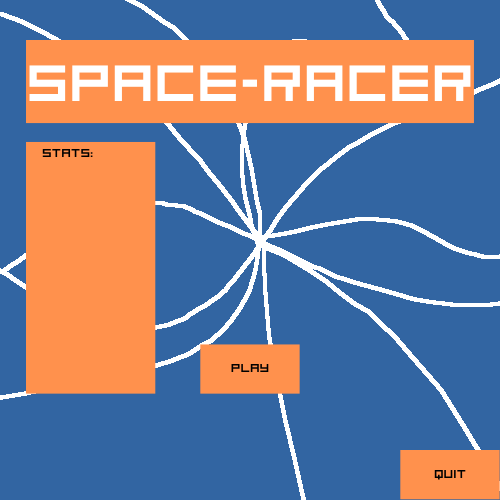
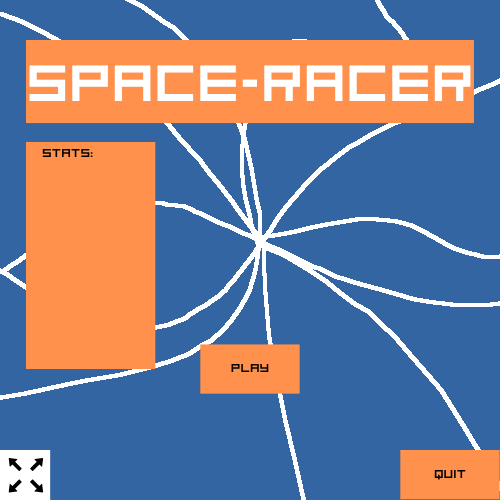
UI werk. Alleen nog geluid, enemy logica en enemy sprites

Changed region(s): [[0.03, 0.72, 0.33, 0.81], [0.0, 0.9, 0.12, 1.0]]

diff --git a/Core/UI/UI_Manager.py b/Core/UI/UI_Manager.py
@@ -17,11 +17,12 @@ class UI_Manager(UI_Group):
         self.Game = Game
         self.Add_Element(Generate_Pause_Overlay(self)) # Genereert de pausedUIoverlay
         self.Add_Element(Generate_MainMenu(self)) # Genereert de mainmenu
+        self.Add_Element(Generate_Game_UI(self))
         # Paar debug statements, Laat statistieken van de speler zien
         if Constants.Game_Settings.Debug: self.Add_Element(Generate_Debug_Overlay(self))
 
-        # 1e scoreboard update # TODO maak deze persistent
-        UpdateScoreBoard(self)
+        # 1e scoreboard update
+        Update_ScoreBoard(self)
     # Update functie
     def Update(self, Eventstack):
         # De ui heeft toegang tot de pygame event queue. Hierdoor reageert de game op events.
@@ -41,8 +42,7 @@ class UI_Manager(UI_Group):
         # Debug statements updaten(Dit zou ook buiten de manager kunnen gebeuren dat is prima)
         if Constants.Game_Settings.Debug: Update_Debug_Overlay(self)
 
-        #TODO Game UI OVERLAY TOEVOEGEN
-
+        Update_Game_UI(self)
         # Daadwerkelijke update functie, update hoe dan ook heel de UI. Niet mega efficient, maar met weinig ui prima
         for Element in self.Elements: Element.Update(Eventstack)
 
@@ -52,9 +52,9 @@ class UI_Manager(UI_Group):
         match New_State:
             case Game_State.Main_Menu:
                 self.Get_Element("MainMenu_Ui").Visible = True
-                # self.Get_Element("Game_UI").Visible = False
+                self.Get_Element("Game_UI").Visible = False
             case Game_State.In_Game:
-                # self.Get_Element("Game_UI").Visible = True TODO MAAK DEZE
+                self.Get_Element("Game_UI").Visible = True
                 self.Get_Element("MainMenu_Ui").Visible = False
 
 # Functie voor het genereren van de UI van de pause_overlay
@@ -66,11 +66,8 @@ def Generate_Pause_Overlay(UIManager):
     PausedUi.Add_Element(Image(PausedUi, "PausedBackground", PausedOverlay, (0, 0)))
     PausedUi.Add_Element(Text_Element(PausedUi, "PauseText", "Gepauzeerd", (200, 230)))
     # Knoppen
-    PausedUi.Add_Element(
-        Button(UIManager, "MainMenuButton", pygame.Vector2(20, 102), pygame.Vector2(130, 50), pygame.transform.scale(Constants.Images.Player, (130, 50)), "Terug naar het menu"))
-    PausedUi.Add_Element(
-        Button(UIManager, "RestartButton", pygame.Vector2(20, 50), pygame.Vector2(130, 50),
-               pygame.transform.scale(Constants.Images.Player, (130, 50)), "Herstart het spel"))
+    PausedUi.Add_Element(Button(UIManager, "MainMenuButton", pygame.Vector2(20, 102), pygame.Vector2(50, 50), Constants.Images.Home))
+    PausedUi.Add_Element(Button(UIManager, "RestartButton", pygame.Vector2(20, 50), pygame.Vector2(50, 50),Constants.Images.Restart))
 
     return PausedUi
 # Main menu generatie
@@ -80,26 +77,15 @@ def Generate_MainMenu(UIManager):
     MainMenuUi.Add_Element(Button(UIManager, "PlayButton", Find_Center((100, 50), UIManager.Game.Get_Screen().get_size()) + pygame.Vector2(0, 120), (100, 50)))
     MainMenuUi.Add_Element(Button(UIManager, "QuitButton", (400, 450), (100, 50)))
     MainMenuUi.Add_Element(Button(UIManager, "FullscreenButton", pygame.Vector2(0,450), (50, 50)))
-    MainMenuUi.Add_Element(UI_Group(UIManager, "ScoreBoard", (30, 160)))
-    #MainMenuUi.Add_Element(Button(UIManager, "FullscreenButton", Find_Center((100, 50), UIManager.Game.Get_Screen().get_size()) + pygame.Vector2(0, 160), (100, 50), pygame.transform.scale(pygame.image.load("Art/Player.png"), (130, 50)), "Toggle Fullscreen"))
+    MainMenuUi.Add_Element(UI_Group(UIManager, "ScoreBoard", (30, 140)))
     return MainMenuUi
-
-# Rangschikt de scoreboard, slaat de scores op en displayt ze op het scherm
-def UpdateScoreBoard(UiManager):
-    ScoreBoard = UiManager.Get_Element("MainMenu_Ui").Get_Element("ScoreBoard")
-    # Cleart de scoreboard
-    ScoreBoard.Elements = []
-    Index = 0
-    Attempts = UiManager.Game.Attempts
-    # Sorteer de scoreboard op punten, met de meest punten op de bovenkant
-    Attempts.sort(key=lambda Attempt: Attempt["Weight"], reverse=True)
-    for Attempt in Attempts:
-        Index += 1
-        # Stop als er meer dan 10 punten zijn, anders loopt hij over de beschikbare ruimte heen.
-        if Index > 10: break
-        ScoreText = Text_Element(UiManager, f"Attempts{Index}", f"{Index}: {round(Attempt["Score"])} punten in {round(Attempt["Time_Survived"])} seconden", (30, 140 + (Index * 20)), Font=pygame.font.SysFont("Arial", 10))
-        ScoreBoard.Add_Element(ScoreText)
-
+# Genereer de game_UI
+def Generate_Game_UI(UIManager):
+    GameUi = UI_Group(UIManager, "Game_UI", (0, 0))
+    GameUi.Add_Element(Text_Element(GameUi, "Score", f"0", (195, 80), (255, 255, 255), Font=pygame.font.SysFont("Arial", 25, bold=True)))
+    # Ui group voor de Game-Ui
+    GameUi.Add_Element(UI_Group(GameUi, "Lives", (195, 50)))
+    return GameUi
 
 # Functie voor het genereren van de UI van de Debug_Overlay
 def Generate_Debug_Overlay(UIManager):
@@ -113,7 +99,32 @@ def Generate_Debug_Overlay(UIManager):
     DebugUi.Add_Element(Text_Element(DebugUi, "Score", f"Score:", (0, 130), (255, 0, 0)))
     DebugUi.Add_Element(Text_Element(DebugUi, "Entitylist", f"Entitylist:", (0, 150), (255, 0, 0)))
     return DebugUi
+# Update de ui tijdens het spelen van het spel
+def Update_Game_UI(UiManager):
+    GameUi = UiManager.Get_Element("Game_UI")
+    GameUi.Get_Element("Score").Text = f"{round(UiManager.Game.Get_GameInfo().Score)}"
 
+    LivesElement = GameUi.Get_Element("Lives")
+    LivesElement.Elements = []
+    for i in range(UiManager.Game.Get_GameInfo().Player.Lives):
+        LivesElement.Add_Element(Image(LivesElement, f"Life{i}", Constants.Images.Hartje, ((i * 20), 0)))
+
+# Rangschikt de scoreboard, slaat de scores op en displayt ze op het scherm
+def Update_ScoreBoard(UiManager):
+    ScoreBoard = UiManager.Get_Element("MainMenu_Ui").Get_Element("ScoreBoard")
+    # Cleart de scoreboard
+    ScoreBoard.Elements = []
+    Index = 0
+    Attempts = UiManager.Game.Attempts
+    # Sorteer de scoreboard op punten, met de meest punten op de bovenkant
+    Attempts.sort(key=lambda Attempt: Attempt["Weight"], reverse=True)
+    for Attempt in Attempts:
+        Index += 1
+        # Stop als er meer dan 10 punten zijn, anders loopt hij over de beschikbare ruimte heen.
+        if Index > 10: break
+        ScoreText = Text_Element(ScoreBoard, f"Attempts{Index}", f"{Index}: {round(Attempt["Score"])} punten in {round(Attempt["Time_Survived"])} seconden", (0, Index * 20), Font=pygame.font.SysFont("Arial", 10))
+        ScoreBoard.Add_Element(ScoreText)
+# Update alle debug-overlays
 def Update_Debug_Overlay(UiManager):
     DebugUi = UiManager.Get_Element("Debug_Ui")
     DebugUi.Get_Element("FPS").Text = f"FPS: {round(1 / UiManager.Game.Deltatime)}"

diff --git a/Core/GameInfo.py b/Core/GameInfo.py
@@ -7,7 +7,7 @@ from Core.Functions import Find_Center, WriteHighScoreFile
 from Core.Entities.Player import Player
 from Core.Entities.Entity import Entity
 from Core.Functions import Generate_Background
-from Core.UI.UI_Manager import UpdateScoreBoard
+from Core.UI.UI_Manager import Update_ScoreBoard
 
 
 class GameInfo:
@@ -39,7 +39,7 @@ class GameInfo:
         self.Score = 0 # na 180 seconden 5000 punten. Dus 180/5000 punten/seconden erbij
 
         # Speler van het spel, aparte class die boven alle andere logica staat
-        self.Player = Player(Constants.Images.Player, self._Game, Find_Center(pygame.Vector2(50, 50), pygame.Vector2(500, 500)))
+        self.Player = Player(Constants.Images.Player_Image, self._Game, Find_Center(pygame.Vector2(50, 50), pygame.Vector2(500, 500)))
 
         #self.EntityList.append(TestEntity(Constants.Images.Player, self._Game, Find_Center(pygame.Vector2(50, 50), pygame.Vector2(500, 500))))
 
@@ -58,14 +58,13 @@ class GameInfo:
             # Update alle entities in het spel
             for Entity in self.EntityList:
                 Entity.Update(Eventstack)
-
-            self.Score += (5000/180) * self._Game.Deltatime # zie score init voor definitie
+            if self.Player.Lives > 0:
+                self.Score += (5000/180) * self._Game.Deltatime # zie score init voor definitie
             self.Time_Since_Game_Start += self._Game.Deltatime
             self.Update_Background()
         # TODO HIER MOET NOG SPEL LOGICA
     # Alle logica voor het tekenen op het scherm.
     def Draw(self):
-        #TODO Dynamische ACHTERGROND
         self.Player.Draw() # Player Draw Update
         # Teken alle entities in het spel.
         for Entity in self.EntityList:
@@ -116,5 +115,5 @@ class GameInfo:
         # Weight voor de ranking
         self._Game.Attempts.append({"Score" : self.Score, "Time_Survived" : self.Time_Since_Game_Start, "Weight":self.Score*self.Time_Since_Game_Start})
         self._Game.Set_State(Constants.Game_State.Main_Menu)
-        UpdateScoreBoard(self._Game.Get_Ui_Manager())
+        Update_ScoreBoard(self._Game.Get_Ui_Manager())
         WriteHighScoreFile(self._Game.Attempts)

diff --git a/Core/Constants.py b/Core/Constants.py
@@ -13,10 +13,13 @@ class Images:
     Background =  pygame.transform.scale(pygame.image.load("Art/Background.jpg"), (500, 500))
     MainMenu = pygame.transform.scale(pygame.image.load("Art/MainMenu.jpg"), (500, 500))
     MainMenuBackGround = pygame.image.load("Art/Main-Menu-Image.png")
+    Hartje = pygame.image.load("Art/Hartje.png")
+    Player_Image = pygame.transform.scale(pygame.image.load("Art/Player-Rocket.png"), (50, 50))
+    Home = pygame.image.load("Art/Home.png")
+    Restart = pygame.image.load("Art/Restart.png")
 class Game_State(Enum):
     Main_Menu = 0
     In_Game = 1
-
 class EnemyTypes(Enum):
     Standard = 0
     PowerUp = 1

diff --git a/Core/Game.py b/Core/Game.py
@@ -25,6 +25,9 @@ class Game:
         self._GameInfo = GameInfo(self) # Gameinfo object die zich elke ronde reset.
         self._UI_Manager = UI_Manager(self) # UI manager
 
+        # Update ook meteen de state, zodat de ui manager de juiste ui kan tonen
+        self.Set_State(self._State)
+
 
     # Deltatime update, update ook de pygame clock
     def Update_Deltatime(self):

diff --git a/Core/Functions.py b/Core/Functions.py
@@ -64,7 +64,7 @@ def Generate_Background():
     # Wat ik daarvoor bedacht had.
 
     # Sterren genereren
-    StarAmount = 500
+    StarAmount = 250
     for i in range(StarAmount):
         x = random.randint(3, 497)
         y = random.randint(3, 497)

diff --git a/main.py b/main.py
@@ -11,6 +11,7 @@ Screen = pygame.display.set_mode(Constants.Game_Settings.Screen_Size, Flags)
 
 #Initialisatie van de game! :)
 _Game = Game(Screen)
+
 # Core loop met exit conditie
 while True:
     # Haalt eens per frame alle Events op
